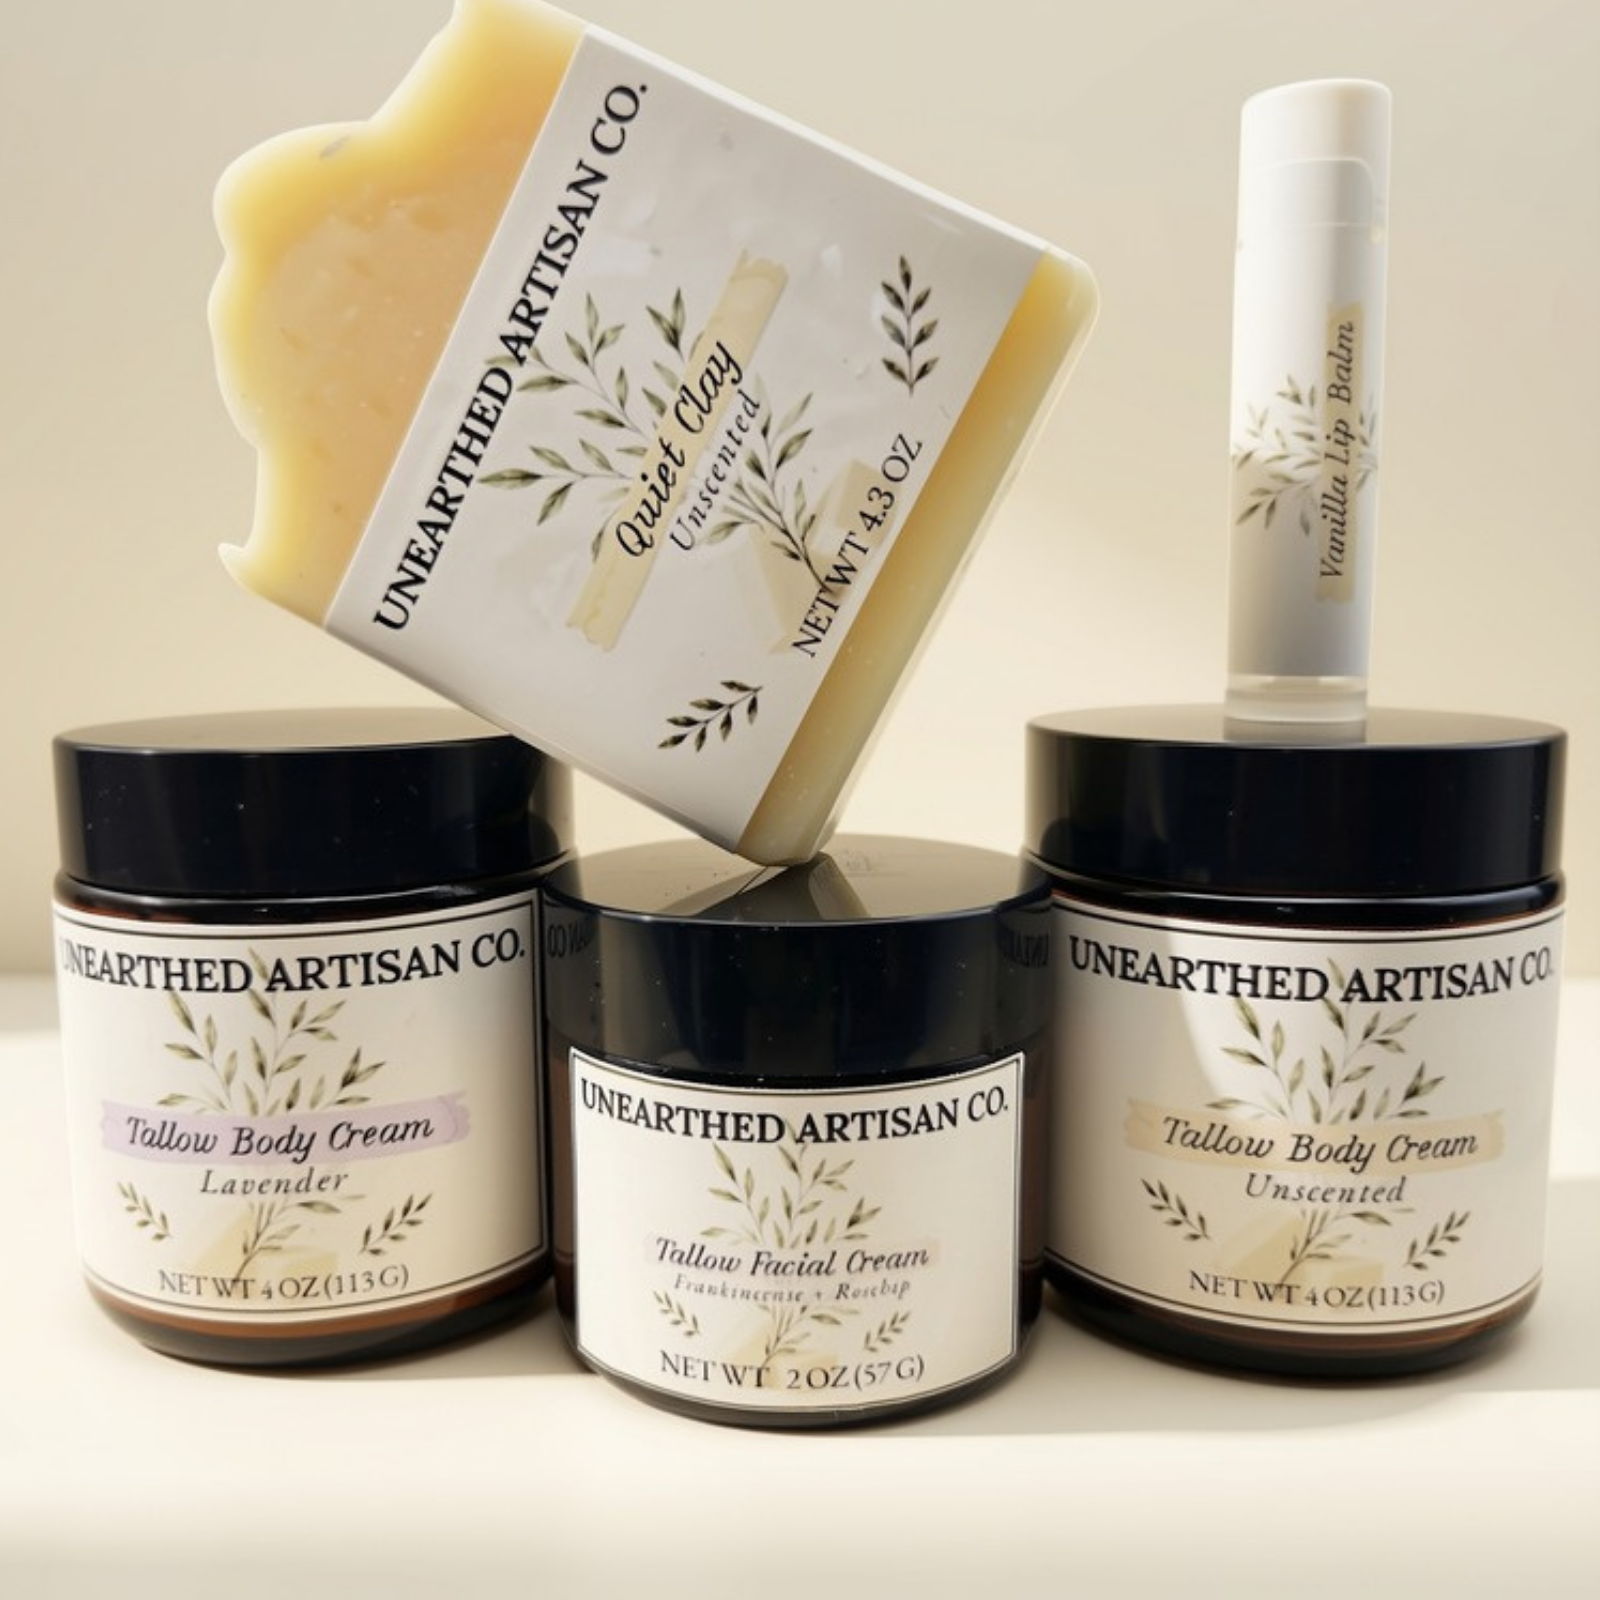
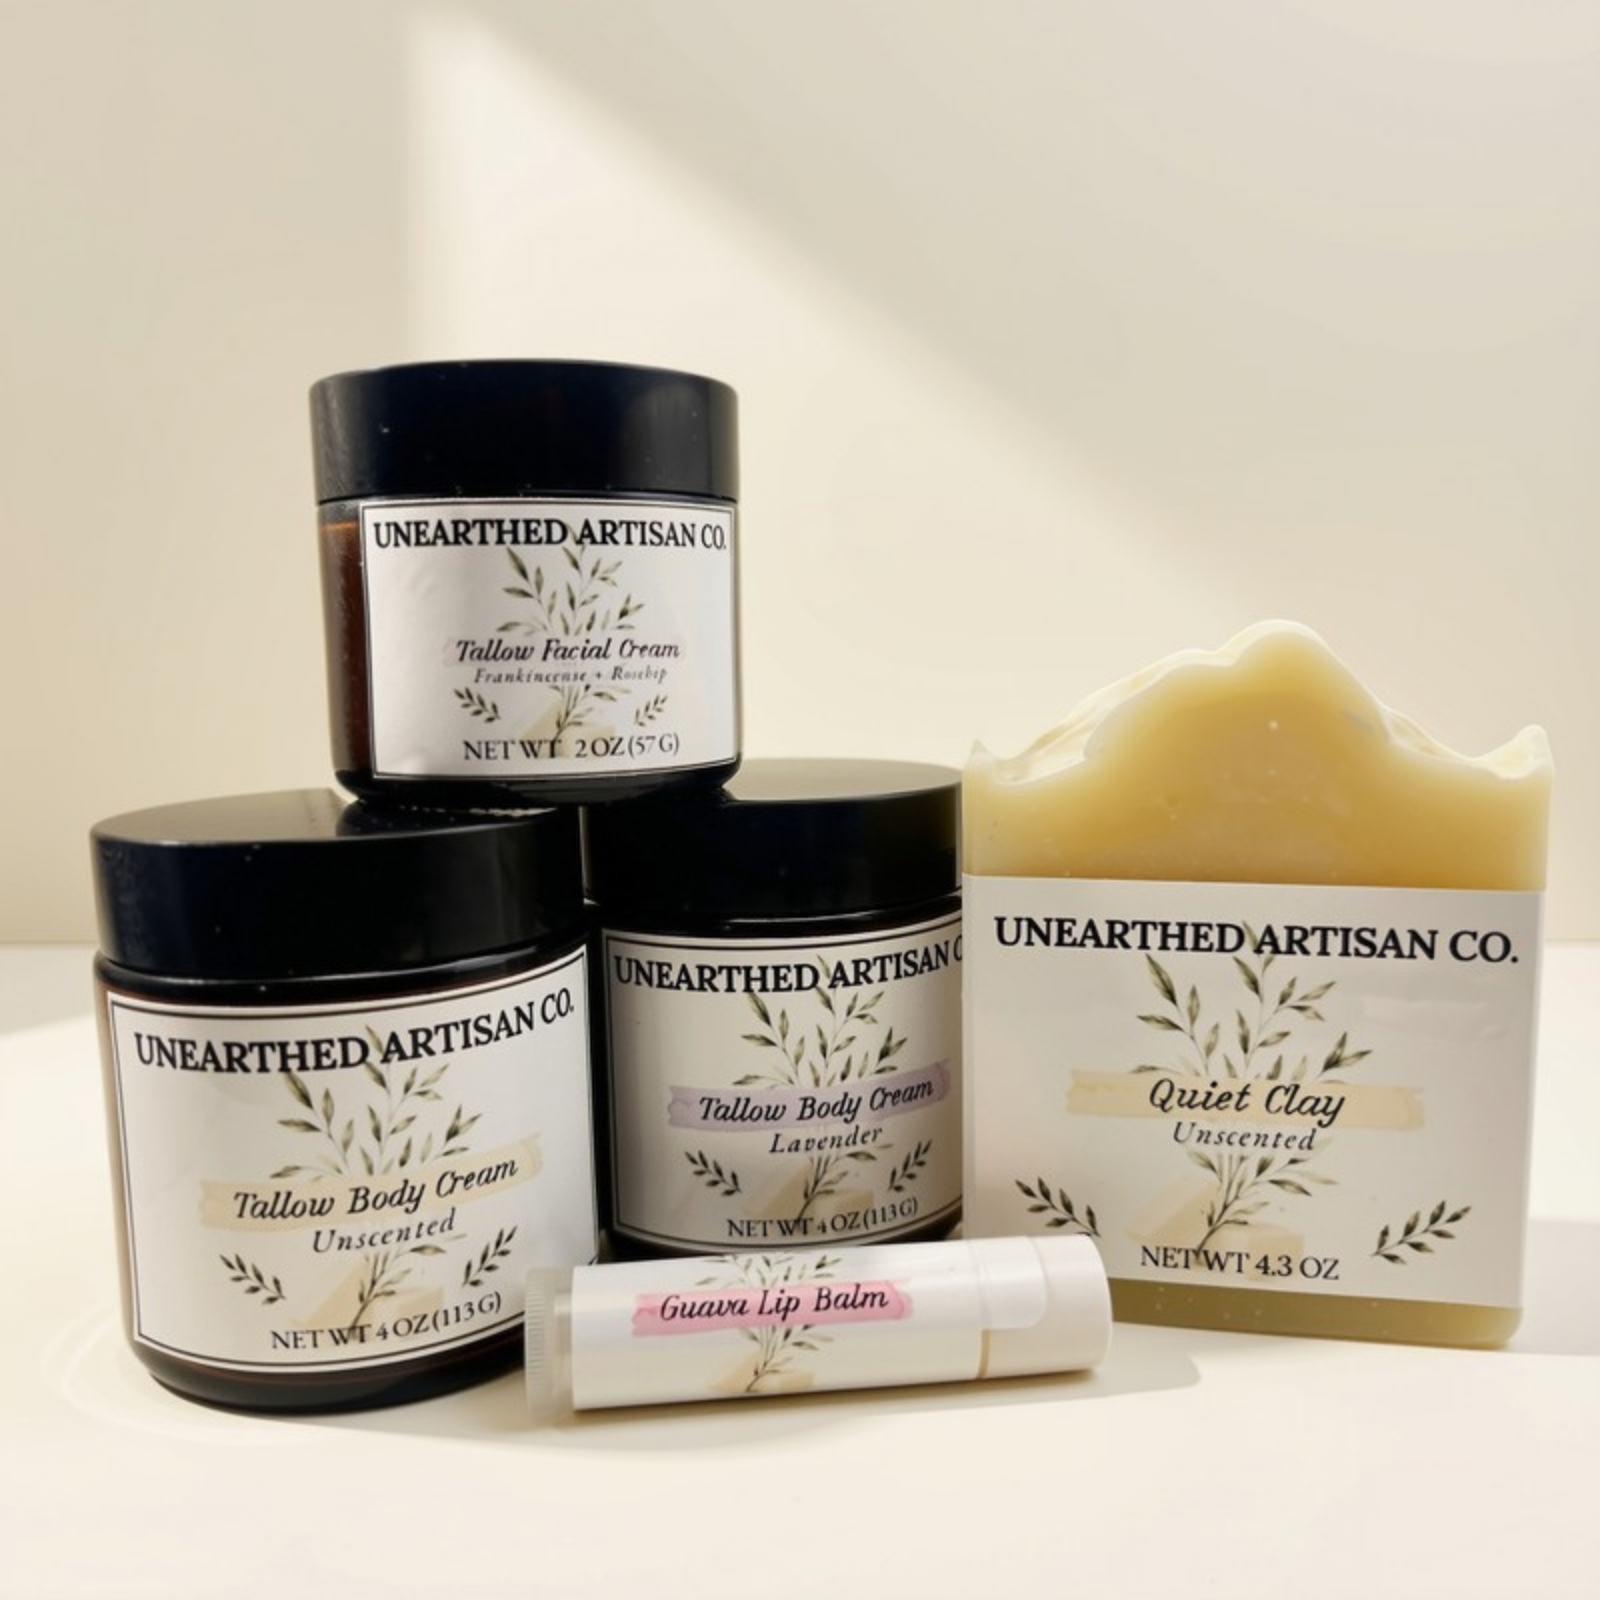
Update Daily/Curated Ritual photos and zoom out all Ritual bundle photos
Daily and Curated Ritual photos replaced with new Canva versions
(matched by item count: 4 items = Daily, 5 items = Curated). Starter
Ritual photo unchanged. All three Ritual photos now render slightly
smaller within their circle frame so the full product grouping stays
comfortably in view.

diff --git a/shop.html b/shop.html
@@ -441,7 +441,7 @@
     <div class="shelf">
 
       <article class="card">
-        <div class="card-art">
+        <div class="card-art card-art--ritual">
           <img src="assets/ritual-starter.png" alt="Starter Ritual gift set" />
         </div>
         <div class="card-body">
@@ -486,7 +486,7 @@
       </article>
 
       <article class="card">
-        <div class="card-art">
+        <div class="card-art card-art--ritual">
           <img src="assets/ritual-daily.png" alt="Daily Ritual gift set" />
         </div>
         <div class="card-body">
@@ -535,7 +535,7 @@
       </article>
 
       <article class="card mix-match-card">
-        <div class="card-art">
+        <div class="card-art card-art--ritual">
           <img src="assets/ritual-curated.png" alt="Curated Ritual gift set" />
         </div>
         <div class="card-body">

diff --git a/styles.css b/styles.css
@@ -361,6 +361,13 @@ p { margin: 0; }
   aspect-ratio: 1 / 1;
   object-fit: cover;
 }
+/* Ritual bundle photos show several products together, so a slightly
+   smaller circle keeps the whole grouping comfortably in frame. */
+.card-art--ritual img {
+  display: block;
+  width: 88%;
+  margin: 0 auto;
+}
 .card-tag {
   position: absolute;
   top: 34px;
